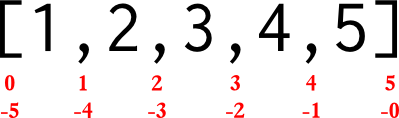
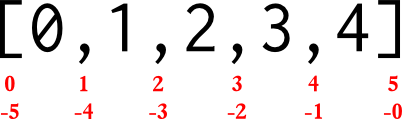
Use doctest sections for the early samples to give more immediate feedback on what is happening

diff --git a/lessonplan.rst b/lessonplan.rst
@@ -1,6 +1,11 @@
 Lesson Plan
 ===========
 
+You may want to follow along with some of these examples, you can start an 
+interactive Python prompt (an "interpreter") such as you see here by running
+``python`` (the basic Python interpreter) or ``ipython`` (a more friendly 
+interpreter).
+
 Basics
 ------
 
@@ -8,33 +13,132 @@ Basics
 
 * variables, assignment, print
 
-.. literalinclude:: exercises/basicvariables.py
-    :language: python
+.. doctest::
+
+    >>> count = 5.0
+    >>> print 'count', count
+    count 5.0
+    >>> count = count + 3.0
+    >>> print 'new count',count
+    new count 8.0
 
 * arithmetic
 
-.. literalinclude:: exercises/basicarithmetic.py
-    :language: python
+.. doctest::
+
+    >>> count = 5.0
+    >>> count + 3
+    8.0
+    >>> count * 3
+    15.0
+    >>> count / 3
+    1.6666666666666667
+    >>> count ** 2 # exponentiation
+    25.0
+    >>> count ** .5
+    2.23606797749979
+    >>> count % 3 # remainder
+    2.0
+    >>> count // 3 # quotient
+    1.0
+    >>> count * 3 + 2
+    17.0
+    >>> count * (3 + 2)
+    25.0
 
 * basic types
 
-.. literalinclude:: exercises/basictypes.py
-    :language: python
+.. doctest::
+
+    >>> count = 36
+    >>> print count
+    36
+    >>> count / 10 # surprising?
+    3
+    >>> irrational = 3.141592653589793
+    >>> irrational
+    3.141592653589793
+    >>> label = "irrational, 'eh"
+    >>> label2 = 'count "this"'
+    >>> label3 = '''python has these too'''
+    >>> label4 = """but they are just a different way to write the same thing"""
+    >>> print label, label2, label3, label4
+    irrational, 'eh count "this" python has these too but they are just a different way to write the same thing
+    >>> print label + label2
+    irrational, 'ehcount "this"
+    >>> None # doesn't show up
+    >>> print None
+    None
+    >>> print True
+    True
+    >>> print False
+    False
+    >>> True == 1
+    True
+    >>> False == 1
+    False
+    >>> False == 0
+    True
 
 * type conversions
 
-.. literalinclude:: exercises/basicconversions.py
-    :language: python
+.. doctest::
+
+    >>> string = '32'
+    >>> string
+    '32'
+    >>> int(string)
+    32
+    >>> float(string)
+    32.0
+    >>> str( int( string ))
+    '32'
+    >>> str( float( string ))
+    '32.0'
+
+.. doctest::
+    
+    >>> string = '32.6'
+    >>> int(string)
+    Traceback (most recent call last):
+      File "<stdin>", line 1, in <module>
+    ValueError: invalid literal for int() with base 10: '32.6'
+    >>> float( string )
+    32.6
+    >>> int( float (string ))
+    32
+    >>> int( round( float( string ), 0 ))
+    33
+    >>> round( 32.6, 0 )
+    33.0
+    >>> round( 32.6, 1 )
+    32.6
     
 * lists
 
-.. literalinclude:: exercises/basiclists.py
-    :language: python
+.. doctest::
+
+    >>> integers = [0, 1, 2, 3, 4, 5, 6, 7, 8, 9]
+    >>> integers
+    [0, 1, 2, 3, 4, 5, 6, 7, 8, 9]
+    >>> integers.append( 11 )
+    >>> integers
+    [0, 1, 2, 3, 4, 5, 6, 7, 8, 9, 11]
+    >>> integers.insert( 0, -1 )
+    >>> integers
+    [-1, 0, 1, 2, 3, 4, 5, 6, 7, 8, 9, 11]
+    >>> len(integers)
+    12
+    >>> integers.append( 'apple' )
+    >>> integers
+    [-1, 0, 1, 2, 3, 4, 5, 6, 7, 8, 9, 11, 'apple']
 
 Exercise
 ~~~~~~~~
 
+* edit the file ``exercises/basicexercise.py``
 * create, modify and display some variables
+* run the file with ``python basicexercise.py`` from the ``exercises`` directory
 
 .. literalinclude:: exercises/basicexercise.py
     :language: python
@@ -53,6 +157,28 @@ List Indexing
   * ``alist[i]`` looks up the index in the above scheme and gets the next item
   * ``alist[-i]`` looks up the index in the second line and gets the next item 
 
+.. doctest::
+
+    >>> counts = [0,1,2,3,4]
+    >>> counts[0]
+    0
+    >>> counts[1]
+    1
+    >>> counts[2]
+    2
+    >>> counts[-1]
+    4
+    >>> counts[-2]
+    3
+    >>> counts[-4]
+    1
+    >>> counts[-5]
+    0
+    >>> counts[-6]
+    Traceback (most recent call last):
+      File "<stdin>", line 1, in <module>
+    IndexError: list index out of range
+    >>> 
 
 * list slicing 
 
@@ -62,8 +188,24 @@ List Indexing
     * ``alist[:j]`` retrieves all items from start (index 0) until we reach ``j``, this is, conveniently, the first ``j`` items
     * ``alist[i:]`` starts at index ``i`` and retrieves all items until we reach the end, this "skips" the first ``i`` items
 
-.. literalinclude:: exercises/basicslicing.py
-    :language: python
+.. doctest::
+
+    >>> counts = [1, 2, 3, 4, 5]
+    >>> counts
+    [1, 2, 3, 4, 5]
+    >>> counts = [1, 2, 3, 4, 5]
+    >>> counts[1:]
+    [2, 3, 4, 5]
+    >>> counts[:-1]
+    [1, 2, 3, 4]
+    >>> counts[1:-1]
+    [2, 3, 4]
+    >>> counts[99:]
+    []
+    >>> counts[:-99]
+    []
+    >>> counts[3:8]
+    [4, 5]
 
 Exercise
 ~~~~~~~~

diff --git a/index.rst b/index.rst
@@ -1,9 +1,11 @@
 Software Carpentry Workshop (Python)
 ====================================
 
-* You need to accomplish a task.
-* You decide to do it with a computer.
-* Now you have two tasks.
+.. topic:: Learning to Program
+
+	* You need to accomplish a task.
+	* You decide to do it with a computer.
+	* Now you have two tasks.
 
 Why Python?
 -----------
